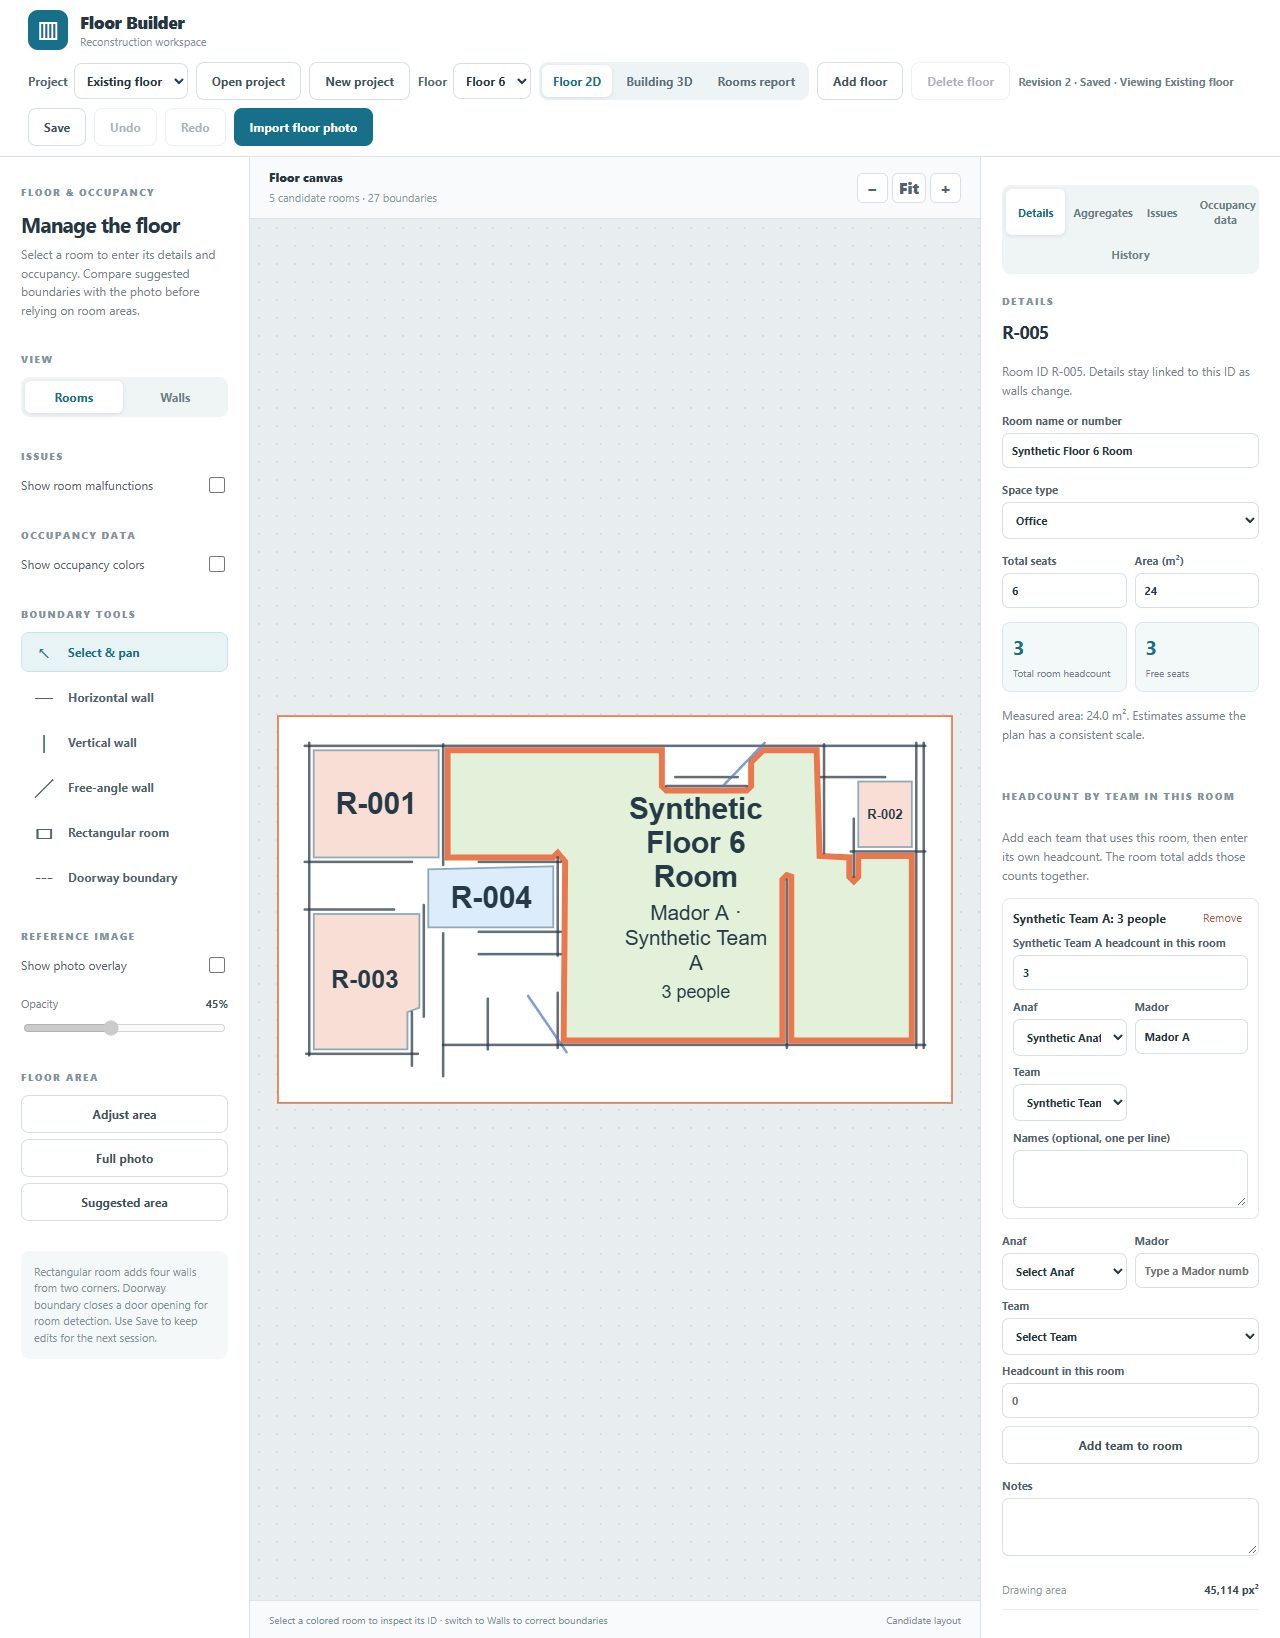
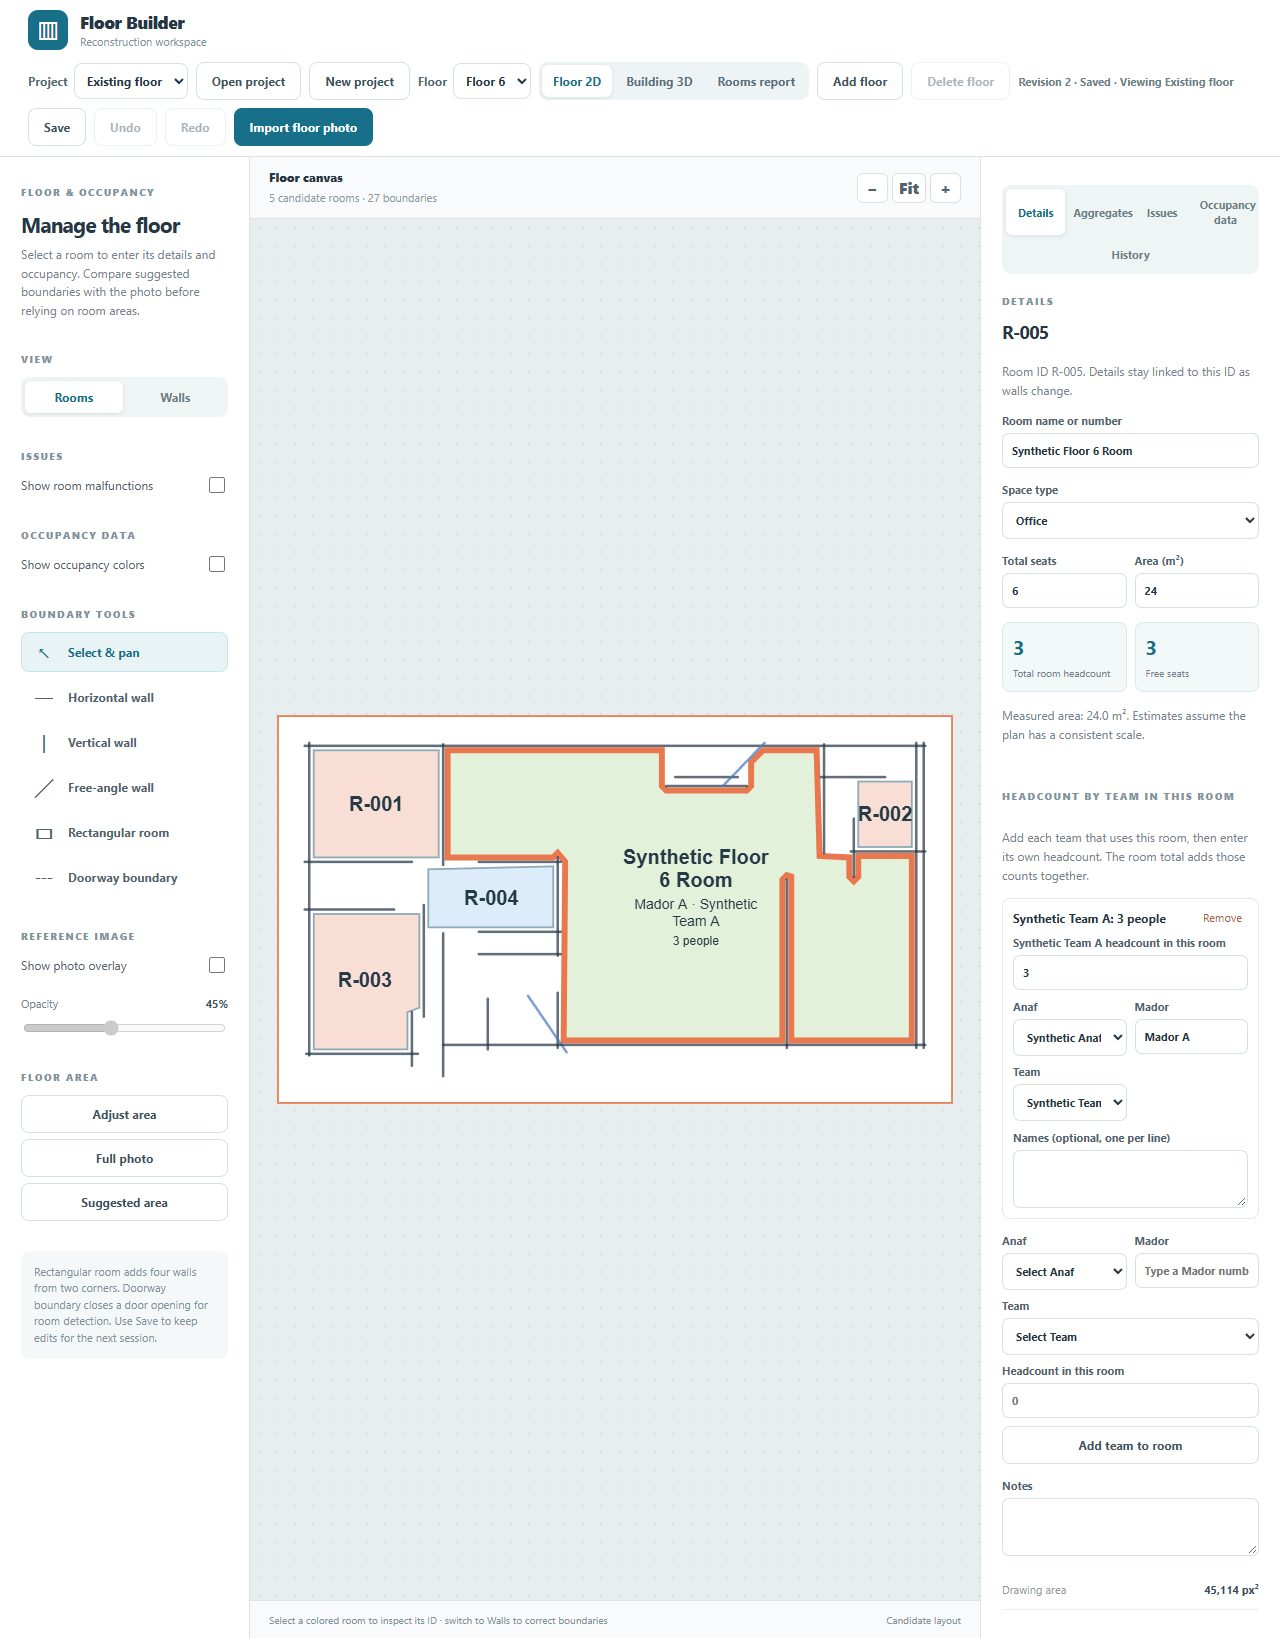
Update public overview from a1fea13

diff --git a/README.md b/README.md
@@ -8,7 +8,7 @@ Floor Builder turns a floor-plan image into editable rooms and a multi-floor bui
 
    ![Simple demo plan with suggested rooms overlaid on the source image](images/photo-overlay.jpg)
 
-2. **Assign rooms.** Select a room, record its seats and area, and assign teams with headcounts. The room shows its total and free seats. Room labels center the office name in a larger bold font, with the available Mador and team below it. Shared offices show each assignment; long labels wrap.
+2. **Assign rooms.** Select a room, record its seats and area, and assign teams with headcounts. The room shows its total and free seats. Room labels center the office name in a larger bold font, with the available Mador and team below it. Shared offices show each assignment; long labels wrap. Names, Mador/team, and occupancy summaries use consistent on-screen font sizes across floors and zoom levels. Zoom in to give crowded labels more room.
 
    ![Room details with a synthetic team assignment](images/room-details.jpg)
 
